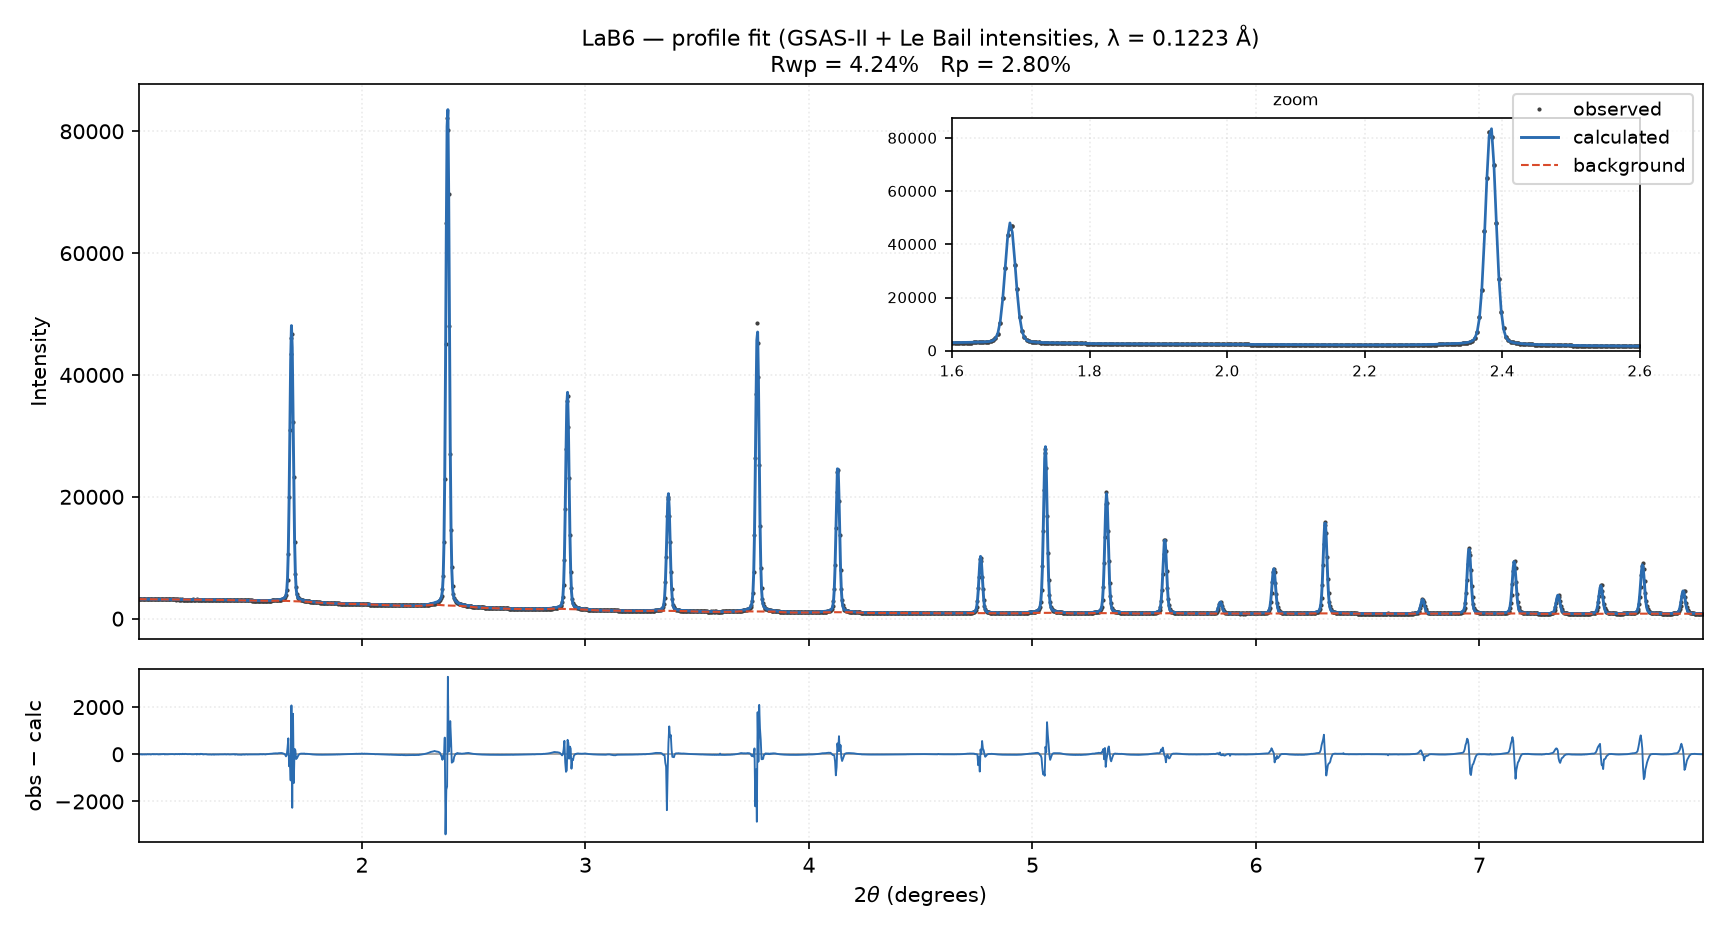
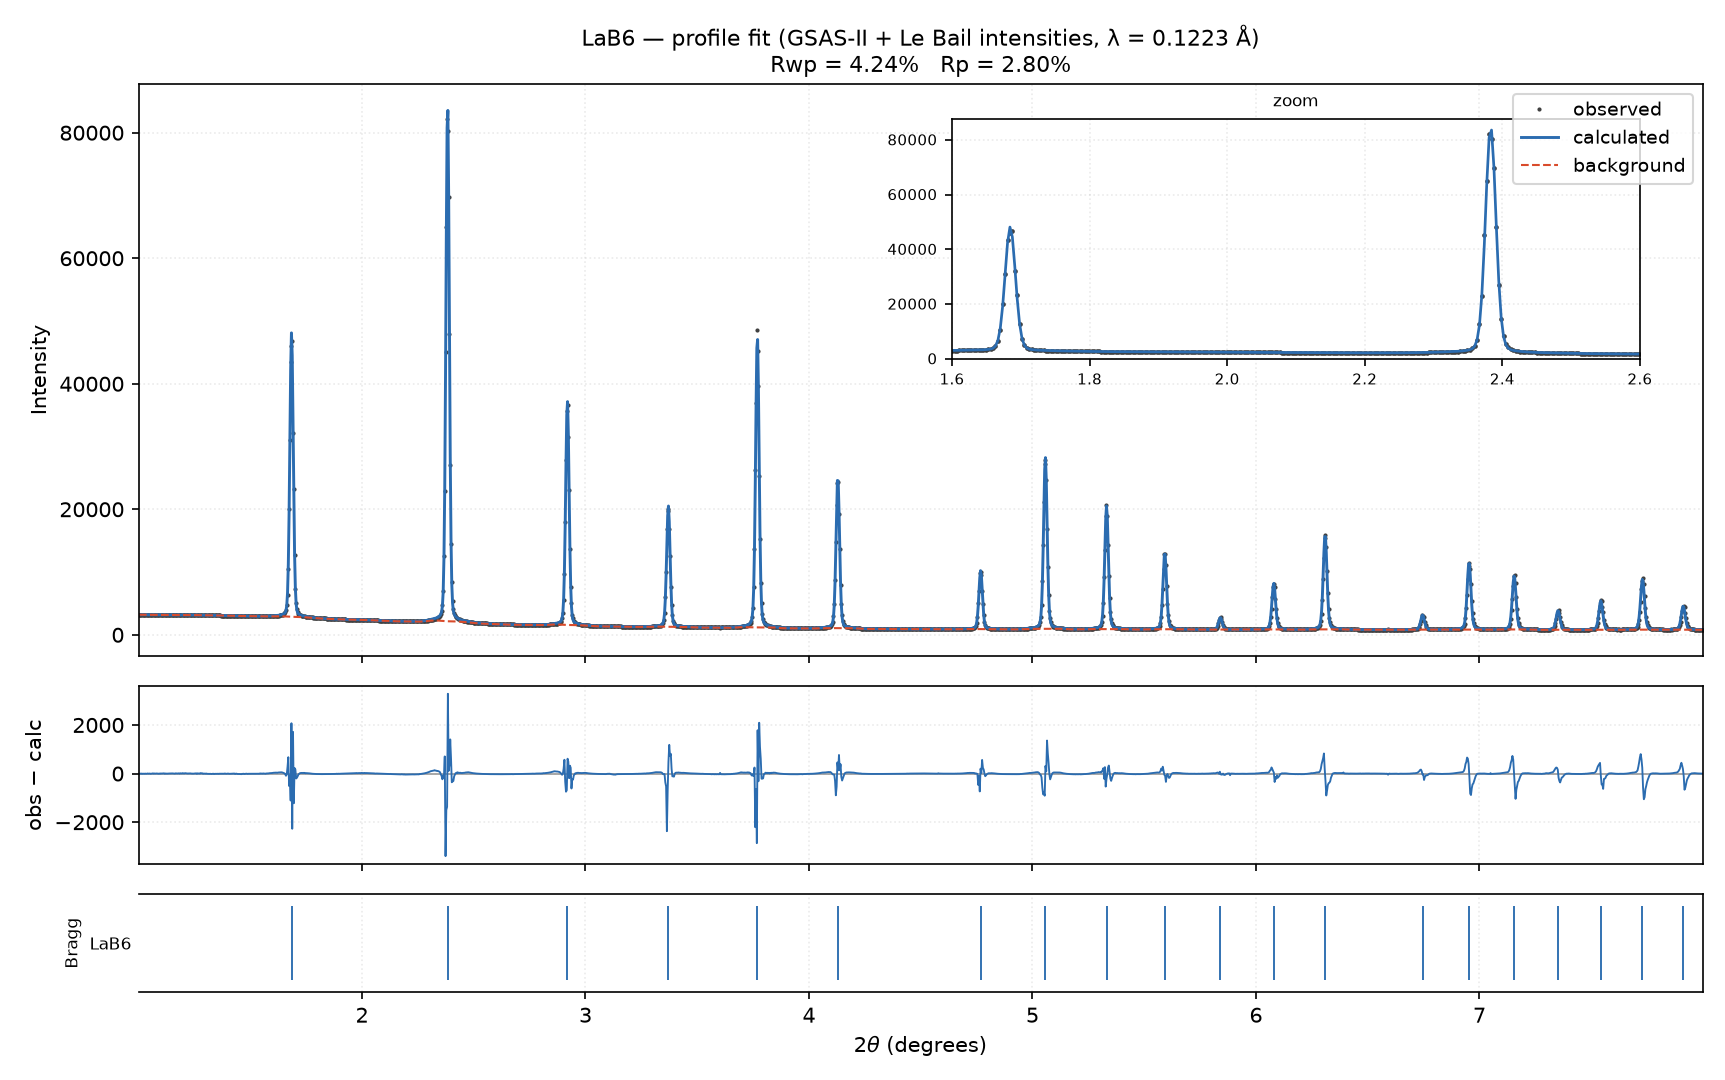
feat: plot fits in the paper layout with Bragg tick rows
- FitResult always carries the fitted reflection positions (peak_tth) and
  the extra-phase positions (extra_peak_tth)
- plot_fit takes an optional bragg=[(label, positions, colour), ...] and
  draws one tick row per phase below the difference panel; omitting it
  keeps the old two-panel layout
- the LaB6 profile figure now shows observed dots, the calculated line,
  the background, the obs-calc row and the LaB6 Bragg row
- the simulation-vs-experiment figure uses experiment dots + simulation
  line with a difference row instead of two overlaid lines
- cover the new peak-position fields in the extra-phase fit test

diff --git a/src/xrd_toolkit/simulation/plots.py b/src/xrd_toolkit/simulation/plots.py
@@ -156,18 +156,34 @@ def plot_fit_bottom(result, title, out_path, *, inter_mask=None, zoom=None):
     return out_path
 
 
-def plot_fit(result, title, out_path, zoom=None, exclude_ranges=None):
-    """拟合结果图：上=观测/计算/背景，下=残差（2026-10-22 拟合工具）。
+def plot_fit(result, title, out_path, zoom=None, exclude_ranges=None,
+             bragg=None):
+    """拟合结果图（论文式布局）：观测/计算/背景 → 残差 → 布拉格峰位。
 
     `result` 是 `simulation.fit.FitResult`（鸭子类型即可：tth / y_obs /
     y_calc / background / residual / rwp / rp）。zoom 给 (lo, hi) 时
     在上图里再嵌一个放大窗；exclude_ranges 给 [(lo, hi), …] 时把
     被排除的区域（如 Al 基片的强峰）画成灰带。
+
+    bragg（2026-10-23 加）：布拉格峰位刻度，list of
+    (label, positions, color)。每个 (label, positions) 画一行短竖线，
+    多相时每相一行（如主相 + Al 基片）。positions 传 %s 拟合后的 2θ
+    （`FitResult.peak_tth` / `extra_peak_tth[label]`），已含零点/晶胞
+    修正；不传则保持原来的两栏布局。
     """
     import matplotlib.pyplot as plt
-    fig, (ax, axr) = plt.subplots(
-        2, 1, sharex=True, figsize=(11.5, 6.2),
-        gridspec_kw={"height_ratios": [3.2, 1.0]})
+    rows = [(str(label), np.asarray(pos, dtype=float), color)
+            for label, pos, color in (bragg or [])]
+    if rows:
+        fig, axes = plt.subplots(
+            3, 1, sharex=True, figsize=(11.5, 7.2),
+            gridspec_kw={"height_ratios": [3.2, 1.0, 0.55]})
+        ax, axr, axb = axes
+    else:
+        fig, (ax, axr) = plt.subplots(
+            2, 1, sharex=True, figsize=(11.5, 6.2),
+            gridspec_kw={"height_ratios": [3.2, 1.0]})
+        axb = None
     ax.plot(result.tth, result.y_obs, ".", ms=2.0, color="0.25",
             label="observed")
     ax.plot(result.tth, result.y_calc, color="#2b6cb0", lw=1.4,
@@ -175,11 +191,15 @@ def plot_fit(result, title, out_path, zoom=None, exclude_ranges=None):
     if result.background is not None:
         ax.plot(result.tth, result.background, "--", color="#d94b2b",
                 lw=1.0, label="background")
+    xlo = float(result.tth.min())
+    xhi = float(result.tth.max())
     first = True
     for lo, hi in exclude_ranges or []:
         ax.axvspan(lo, hi, color="0.9", alpha=0.65, zorder=0,
                    label="excluded" if first else None)
         axr.axvspan(lo, hi, color="0.9", alpha=0.65, zorder=0)
+        if axb is not None:
+            axb.axvspan(lo, hi, color="0.9", alpha=0.65, zorder=0)
         first = False
     ax.set_ylabel("Intensity")
     ax.set_title(f"{title}\nRwp = {result.rwp:.2f}%   Rp = {result.rp:.2f}%",
@@ -189,10 +209,27 @@ def plot_fit(result, title, out_path, zoom=None, exclude_ranges=None):
 
     axr.axhline(0.0, color="0.6", lw=0.8)
     axr.plot(result.tth, result.residual, color="#2b6cb0", lw=0.9)
-    axr.set_xlabel(r"2$\theta$ (degrees)")
     axr.set_ylabel("obs − calc")
     axr.grid(alpha=0.25, linestyle=":")
-    axr.set_xlim(float(result.tth.min()), float(result.tth.max()))
+    axr.set_xlim(xlo, xhi)
+
+    if axb is not None:
+        n = len(rows)
+        axb.set_ylim(0.0, float(n))
+        axb.set_yticks([n - 0.5 - i for i in range(n)])
+        axb.set_yticklabels([label for label, _pos, _c in rows], fontsize=8)
+        axb.tick_params(axis="y", length=0)
+        for i, (_label, pos, color) in enumerate(rows):
+            inside = pos[(pos >= xlo) & (pos <= xhi)]
+            if inside.size:
+                y = float(n - 1 - i)
+                axb.vlines(inside, y + 0.12, y + 0.88, color=color, lw=0.9)
+        axb.set_ylabel("Bragg", fontsize=8)
+        axb.grid(alpha=0.25, axis="x", linestyle=":")
+        axb.spines["left"].set_visible(False)
+        axb.set_xlabel(r"2$\theta$ (degrees)")
+    else:
+        axr.set_xlabel(r"2$\theta$ (degrees)")
 
     if zoom is not None:
         lo, hi = zoom

diff --git a/scripts/simulate_study.py b/scripts/simulate_study.py
@@ -556,12 +556,17 @@ def study_compare(cif: Path, outdir: Path, exp_tif: Path) -> None:
         rows.append((tt, c, fw, sim_fwhm_at(c), h / h_max * 100.0, i_sim))
     i_sim_max = max(r[5] for r in rows)
 
-    # 图：全谱 + 两处放大（rows 是 6 元组：(2θ, 实验位置, FWHM实验, FWHM模拟, I%实验, I模拟)）
+    # 图：论文式布局——上排观测点/模拟线，下排差值；左列全谱，右两列放大
     strongest = max(rows, key=lambda r: r[4])
     mid = min(rows, key=lambda r: abs(r[0] - (TMIN + TMAX) / 2))
-    fig, axes = plt.subplots(1, 3, figsize=(15, 4.4),
-                             gridspec_kw={"width_ratios": [2.0, 1, 1]})
-    axes[0].plot(t_sim, y_obs_peaks, color="0.25", lw=1.9,
+    fig = plt.figure(figsize=(15, 6.6))
+    gs = fig.add_gridspec(2, 3, width_ratios=[2.0, 1, 1],
+                          height_ratios=[3.0, 1.0], hspace=0.08, wspace=0.22)
+    axes = [fig.add_subplot(gs[0, 0]), fig.add_subplot(gs[0, 1]),
+            fig.add_subplot(gs[0, 2])]
+    axes_r = [fig.add_subplot(gs[1, i], sharex=axes[i]) for i in range(3)]
+    diff = y_obs_peaks - y_sim
+    axes[0].plot(t_sim, y_obs_peaks, ".", ms=1.8, color="0.25",
                  label="experiment (background subtracted)")
     axes[0].plot(t_sim, y_sim, color="#2b6cb0", lw=1.1,
                  label="simulation (full-pattern fit)")
@@ -569,16 +574,21 @@ def study_compare(cif: Path, outdir: Path, exp_tif: Path) -> None:
     axes[0].legend(loc="upper right", fontsize=9)
     axes[0].set_title(f"{material} — simulation vs experiment "
                       f"(λ = {lam:.4f} Å, Rwp {fit.rwp:.2f}%)", fontsize=10.5)
-    axes[0].set_xlabel(r"2$\theta$ (degrees)"); axes[0].set_ylabel("Intensity")
-    for ax, (tt, c, fw, fws, h_rel, _i) in zip(
-            axes[1:], (strongest, mid)):
+    axes[0].set_ylabel("Intensity")
+    for ax, axr, (tt, c, fw, fws, h_rel, _i) in zip(
+            axes[1:], axes_r[1:], (strongest, mid)):
         w = 0.15
-        ax.plot(t_sim, y_obs_peaks, color="0.25", lw=1.9)
+        ax.plot(t_sim, y_obs_peaks, ".", ms=2.0, color="0.25")
         ax.plot(t_sim, y_sim, color="#2b6cb0", lw=1.1)
         ax.set_xlim(c - w, c + w); ax.set_ylim(bottom=0)
         ax.set_title(f"$2\\theta$ ≈ {c:.3f}°  (FWHM {fw:.3f}° / sim {fws:.3f}°)",
                      fontsize=9.5)
-        ax.set_xlabel(r"2$\theta$ (degrees)")
+    for axr in axes_r:
+        axr.axhline(0.0, color="0.6", lw=0.8)
+        axr.plot(t_sim, diff, color="#2b6cb0", lw=0.8)
+        axr.set_ylabel("obs − calc", fontsize=8.5)
+        axr.set_xlabel(r"2$\theta$ (degrees)")
+        axr.grid(alpha=0.25, linestyle=":")
     for ax in axes:
         ax.grid(alpha=0.25, linestyle=":")
     fig.tight_layout()
@@ -680,7 +690,8 @@ def study_fit(cif: Path, outdir: Path, exp_tif: Path) -> None:
     out = outdir / f"sim_xrd_fit_{material}.png"
     plot_fit(lebail, f"{material} — profile fit (GSAS-II + Le Bail "
                      f"intensities, λ = {lam:.4f} Å)", str(out),
-             zoom=(1.6, 2.6))
+             zoom=(1.6, 2.6),
+             bragg=[(material, lebail.peak_tth, "#2b6cb0")])
     out_b = outdir / f"sim_xrd_fit_bottom_{material}.png"
     plot_fit_bottom(
         lebail, f"{material} — inter-peak bottom residual (Le Bail fit)",

diff --git a/src/xrd_toolkit/simulation/fit.py b/src/xrd_toolkit/simulation/fit.py
@@ -111,6 +111,8 @@ class FitResult:
     peak_intensities: Optional[np.ndarray] = None
     peak_table_intensities: Optional[np.ndarray] = None
     peak_tth: Optional[np.ndarray] = None
+    # 第二相（如 Al 基片）的峰位：{label: 2θ 数组}，给布拉格刻度用
+    extra_peak_tth: Optional[dict] = None
 
     def report(self) -> str:
         """人读的参数表 + 拟合优度（英文，便于直接贴报告）。"""
@@ -891,6 +893,10 @@ def fit_pattern(structure, tth, intensity, *, wavelength=1.5406,
             params[f"{label}:{key}"] = float(em.fixed[key])
     peak_intensities = (None if amps is None
                         else np.asarray(amps, dtype=float) * table.inten)
+    # 峰位（含 zero/晶胞精修后的位置）总是给出：布拉格刻度/报告都要用。
+    # 第二相的位置从各自的 _Model 取（_extra_curves 已用 p_final 更新过）。
+    extra_tth = {label: np.asarray(em._parts(em.fixed)[0], dtype=float)
+                 for label, em in model.extra_models}
     return FitResult(
         params=params, stderr=stderr, rwp=rwp, rp=rp, chi2=chi2,
         reduced_chi2=reduced, n_obs=len(y_raw), n_params=n_params,
@@ -901,7 +907,8 @@ def fit_pattern(structure, tth, intensity, *, wavelength=1.5406,
         initial=init, stages=tuple(used_stages),
         peak_intensities=peak_intensities,
         peak_table_intensities=(None if amps is None else table.inten.copy()),
-        peak_tth=(None if amps is None else model._parts(p_final)[0]))
+        peak_tth=np.asarray(model._parts(p_final)[0], dtype=float),
+        extra_peak_tth=(extra_tth or None))
 
 
 def rwp(y_obs, y_calc, weights="poisson"):

diff --git a/tests/test_fit.py b/tests/test_fit.py
@@ -233,6 +233,14 @@ class TestFitModes(unittest.TestCase):
         self.assertLess(res.rwp, 0.2)
         self.assertGreater(res.params["Al:scale"], 0.0)
         self.assertGreater(res.params["scale"], 0.0)
+        # 峰位（含 zero）与第二相峰位：布拉格刻度要用，结构模式也要给
+        self.assertIsNotNone(res.peak_tth)
+        self.assertGreater(len(res.peak_tth), 5)
+        self.assertIsNotNone(res.extra_peak_tth)
+        self.assertIn("Al", res.extra_peak_tth)
+        al_tt = res.extra_peak_tth["Al"]
+        # 铝 (111) 在 Cu Kα 下约 38.5°
+        self.assertTrue(np.any((al_tt > 38.0) & (al_tt < 39.0)))
 
     def test_x_y_default_bounds_are_nonnegative(self):
         from xrd_toolkit.simulation.fit import DEFAULT_BOUNDS
